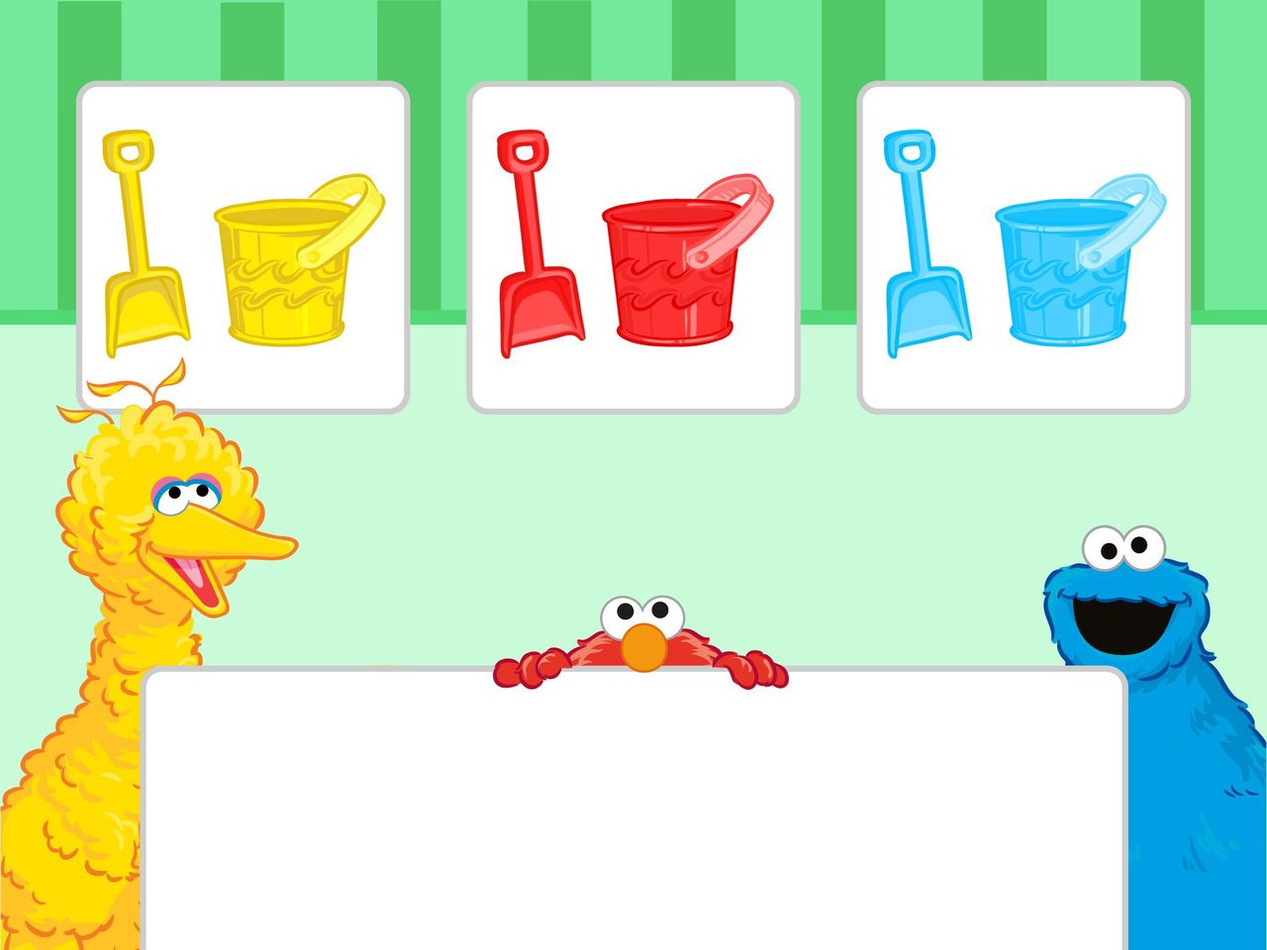
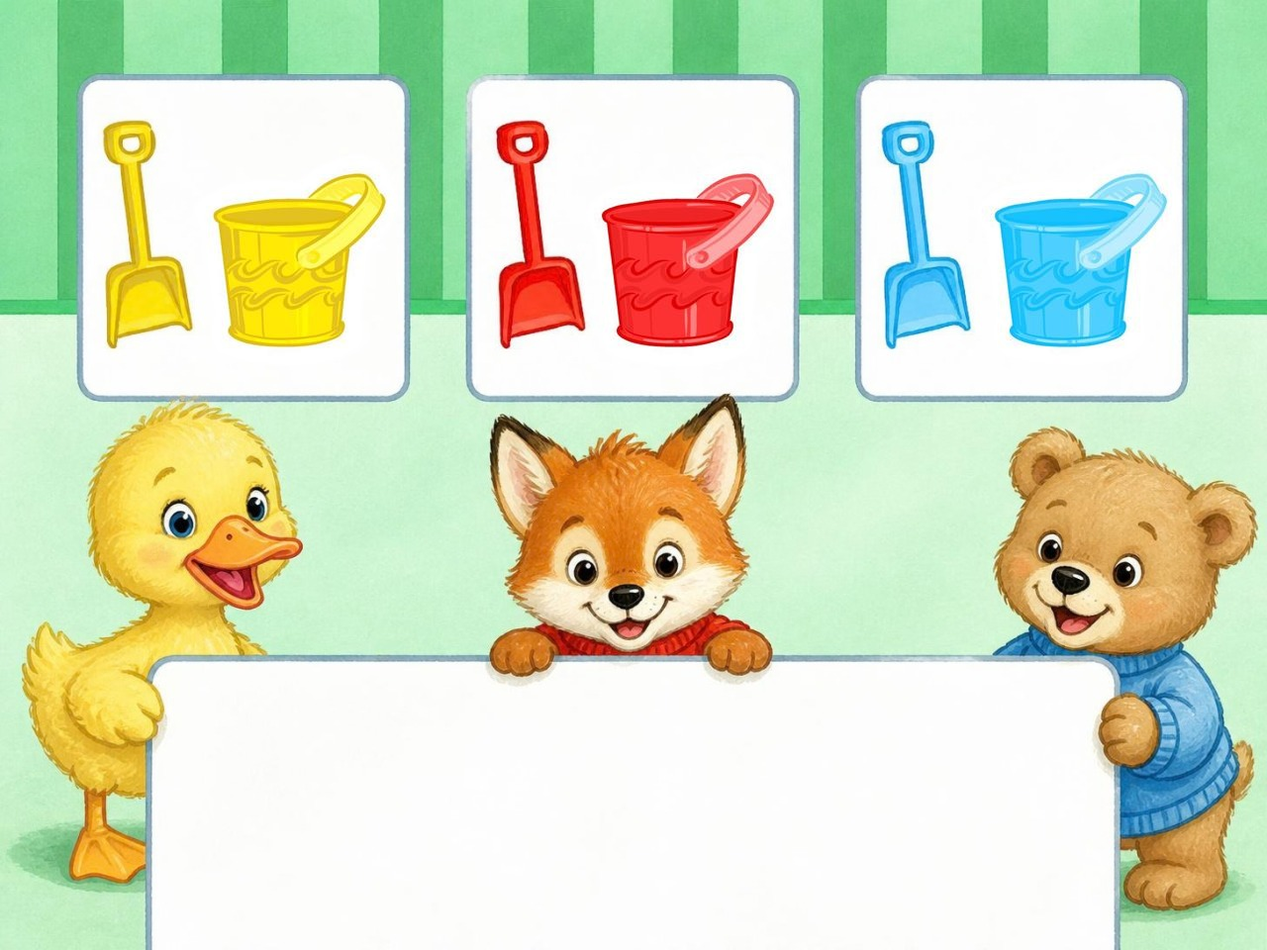
Sesame Street characters replaced in 'מיון צבעים' (6 slides), colors kept (red fox, blue bear, yellow duckling)

diff --git a/games/g4bj0/index.html b/games/g4bj0/index.html
@@ -157,7 +157,7 @@ body.framed #app .top .brand{display:none}
 </script>
 <script>
 /*CFGLINE*/
-const CFG = {"slides": [{"i": 0, "t": "R", "img": "img/s0.jpg?b=4", "acts": [{"intro": "aud/photo1__activity0__activity0.mp3", "advance": true, "idle": null, "shapes": []}], "layers": [{"t": "bg", "src": "lay/s0_0.jpg?b=4", "w": 2048, "h": 1536, "m": [1, 0, 0, 1, 0, 0], "show": 0, "tog": false}]}, {"i": 1, "t": "P", "img": "img/s1.jpg?b=4", "acts": [{"intro": "aud/photo2__activity0__activity0.mp3", "advance": false, "idle": null, "shapes": [{"d": "M 670.6 301.9 L 675.5 298.9 L 680.8 298.1 L 686.4 297.8 L 690.9 295.1 L 696.1 294.8 L 701.4 294.8 L 706.6 294.8 L 712.6 294.0 L 718.6 295.1 L 723.9 297.0 L 729.5 299.6 L 733.6 302.6 L 739.2 303.8 L 745.6 306.8 L 750.5 309.0 L 755.8 310.9 L 761.0 312.8 L 765.5 316.1 L 769.2 319.5 L 772.6 323.2 L 775.6 327.4 L 777.9 331.9 L 778.6 337.5 L 782.8 340.5 L 784.6 345.4 L 786.5 350.2 L 786.5 356.2 L 786.9 361.9 L 788.4 366.8 L 788.4 372.4 L 786.5 377.2 L 787.2 382.5 L 787.6 388.5 L 786.5 394.9 L 784.2 399.8 L 781.2 404.2 L 782.0 409.9 L 782.0 415.1 L 780.9 420.4 L 779.8 426.4 L 777.5 431.2 L 774.5 435.4 L 772.6 441.0 L 768.9 445.5 L 765.1 448.9 L 762.5 453.8 L 759.5 457.9 L 755.4 461.2 L 750.5 463.1 L 746.4 466.9 L 741.5 468.8 L 735.9 469.1 L 730.6 470.6 L 725.8 472.5 L 720.9 473.6 L 715.6 474.0 L 710.0 474.8 L 704.4 476.6 L 699.5 478.1 L 693.9 478.9 L 687.9 478.1 L 682.6 477.4 L 677.0 477.8 L 672.5 475.1 L 666.9 473.2 L 662.0 472.1 L 657.1 470.6 L 652.6 468.4 L 648.5 465.0 L 645.1 460.9 L 642.9 456.4 L 641.0 451.5 L 638.0 447.4 L 633.9 444.4 L 630.1 441.0 L 626.8 437.2 L 623.8 433.1 L 621.5 428.6 L 618.1 424.5 L 615.5 420.0 L 614.0 415.1 L 614.0 409.9 L 612.9 403.9 L 612.5 398.6 L 612.5 393.0 L 613.2 387.8 L 614.4 382.9 L 613.2 376.9 L 613.6 371.2 L 615.9 366.8 L 615.9 361.5 L 617.0 356.2 L 620.0 352.1 L 620.4 346.9 L 623.4 342.0 L 627.9 339.0 L 630.1 334.1 L 633.9 330.4 L 638.0 327.0 L 641.4 321.8 L 645.1 318.0 L 649.2 315.0 L 654.1 312.8 L 657.9 308.6 L 662.4 306.4 L 666.9 304.1 L 671.2 301.6 Z", "bb": [612, 294, 788, 479], "r1": "aud/photo2__activity0__shape11__record1_11.mp3", "r2": null, "ans": [], "link": null, "tx": -298.8, "ty": -242.5, "idle": null}, {"d": "M 305.8 308.6 L 310.6 305.6 L 315.9 304.9 L 321.5 304.5 L 326.0 301.9 L 331.2 301.5 L 336.5 301.5 L 341.8 301.5 L 347.8 300.8 L 353.8 301.9 L 359.0 303.8 L 364.6 306.4 L 368.8 309.4 L 374.4 310.5 L 380.8 313.5 L 385.6 315.8 L 390.9 317.6 L 396.1 319.5 L 400.6 322.9 L 404.4 326.2 L 407.8 330.0 L 410.8 334.1 L 413.0 338.6 L 413.8 344.2 L 417.9 347.2 L 419.8 352.1 L 421.6 357.0 L 421.6 363.0 L 422.0 368.6 L 423.5 373.5 L 423.5 379.1 L 421.6 384.0 L 422.4 389.2 L 422.8 395.2 L 421.6 401.6 L 419.4 406.5 L 416.4 411.0 L 417.1 416.6 L 417.1 421.9 L 416.0 427.1 L 414.9 433.1 L 412.6 438.0 L 409.6 442.1 L 407.8 447.8 L 404.0 452.2 L 400.2 455.6 L 397.6 460.5 L 394.6 464.6 L 390.5 468.0 L 385.6 469.9 L 381.5 473.6 L 376.6 475.5 L 371.0 475.9 L 365.8 477.4 L 360.9 479.2 L 356.0 480.4 L 350.8 480.8 L 345.1 481.5 L 339.5 483.4 L 334.6 484.9 L 329.0 485.6 L 323.0 484.9 L 317.8 484.1 L 312.1 484.5 L 307.6 481.9 L 302.0 480.0 L 297.1 478.9 L 292.2 477.4 L 287.8 475.1 L 283.6 471.8 L 280.2 467.6 L 278.0 463.1 L 276.1 458.2 L 273.1 454.1 L 269.0 451.1 L 265.2 447.8 L 261.9 444.0 L 258.9 439.9 L 256.6 435.4 L 253.2 431.2 L 250.6 426.8 L 249.1 421.9 L 249.1 416.6 L 248.0 410.6 L 247.6 405.4 L 247.6 399.8 L 248.4 394.5 L 249.5 389.6 L 248.4 383.6 L 248.8 378.0 L 251.0 373.5 L 251.0 368.2 L 252.1 363.0 L 255.1 358.9 L 255.5 353.6 L 258.5 348.8 L 263.0 345.8 L 265.2 340.9 L 269.0 337.1 L 273.1 333.8 L 276.5 328.5 L 280.2 324.8 L 284.4 321.8 L 289.2 319.5 L 293.0 315.4 L 297.5 313.1 L 302.0 310.9 L 306.3 308.3 Z", "bb": [248, 301, 424, 486], "r1": "aud/photo2__activity0__shape12__record1_12.mp3", "r2": null, "ans": [], "link": null, "tx": 274.9, "ty": -248.9, "idle": null}]}]}, {"i": 2, "t": "P", "img": "img/s2.jpg?b=4", "acts": [{"intro": "aud/photo3__activity0__activity0.mp3", "advance": false, "idle": null, "shapes": [{"d": "M 215.4 133.5 L 210.1 133.9 L 204.9 135.4 L 198.5 137.2 L 191.7 138.8 L 185.4 140.2 L 179.4 142.1 L 173.7 143.6 L 168.9 145.1 L 164.0 146.2 L 158.7 147.8 L 153.9 149.2 L 152.4 154.1 L 151.2 160.5 L 150.9 166.9 L 150.5 172.9 L 150.5 180.0 L 150.5 187.1 L 149.7 193.5 L 149.0 199.9 L 148.6 205.9 L 148.6 212.2 L 148.6 217.5 L 148.6 222.8 L 151.6 227.2 L 156.1 230.2 L 160.6 234.8 L 165.5 240.0 L 169.2 243.4 L 173.4 247.1 L 177.5 250.1 L 183.1 254.6 L 187.2 258.8 L 191.4 262.5 L 195.9 265.1 L 203.0 264.8 L 209.0 262.9 L 215.0 260.6 L 222.1 258.4 L 230.0 256.1 L 237.5 253.9 L 243.9 252.0 L 249.9 249.8 L 255.1 247.5 L 260.0 245.6 L 264.9 244.1 L 270.9 242.2 L 275.8 239.2 L 276.5 231.8 L 276.9 226.5 L 276.9 219.8 L 276.9 214.1 L 276.9 208.9 L 276.5 203.2 L 276.9 195.8 L 276.9 189.0 L 276.5 182.2 L 275.8 175.9 L 275.4 170.6 L 275.8 165.0 L 275.0 159.8 L 270.4 157.7 L 265.8 155.7 L 261.3 153.7 L 256.7 151.7 L 252.1 149.7 L 247.5 147.7 L 243.0 145.6 L 238.4 143.6 L 233.8 141.6 L 229.2 139.6 L 224.7 137.6 L 220.1 135.6 L 215.5 133.6 L 210.9 131.5 Z", "bb": [149, 132, 277, 265], "r1": "aud/photo3__activity0__shape9__record1_9.mp3", "r2": null, "ans": [], "link": null, "tx": 394.5, "ty": 329.4, "idle": null}, {"d": "M 816.9 134.2 L 811.2 137.6 L 806.8 139.9 L 801.5 142.9 L 796.2 145.1 L 790.6 148.1 L 786.5 151.1 L 782.0 153.4 L 776.8 156.0 L 771.5 159.0 L 765.9 162.0 L 761.4 165.0 L 759.9 171.0 L 759.1 177.4 L 758.8 183.4 L 758.4 190.1 L 758.4 195.4 L 758.4 202.9 L 758.0 208.1 L 758.0 213.4 L 758.0 219.8 L 758.4 225.8 L 759.1 231.4 L 759.1 236.6 L 763.6 240.4 L 768.5 242.6 L 774.5 245.2 L 779.8 247.5 L 785.8 250.1 L 791.4 252.4 L 796.6 254.6 L 802.6 256.5 L 808.6 258.0 L 813.9 259.5 L 819.1 261.0 L 824.0 263.2 L 829.2 265.1 L 835.6 263.2 L 840.5 259.5 L 844.2 256.1 L 848.4 252.8 L 853.6 248.6 L 858.9 245.2 L 863.8 241.9 L 868.6 238.9 L 872.8 235.9 L 877.2 232.1 L 880.6 228.4 L 881.4 220.1 L 881.4 214.1 L 881.8 206.6 L 882.1 199.5 L 882.1 193.5 L 882.1 186.4 L 882.1 181.1 L 882.5 174.8 L 882.5 169.1 L 882.5 163.5 L 882.1 158.2 L 881.0 153.4 L 876.2 151.9 L 871.4 150.5 L 866.6 149.1 L 861.8 147.7 L 857.0 146.2 L 852.3 144.8 L 847.5 143.4 L 842.7 141.9 L 837.9 140.5 L 833.1 139.1 L 828.3 137.7 L 823.5 136.2 L 818.7 134.8 L 813.9 133.4 Z", "bb": [758, 133, 882, 265], "r1": "aud/photo3__activity0__shape8__record1_8.mp3", "r2": null, "ans": [], "link": null, "tx": -398.8, "ty": 331.7, "idle": null}]}]}, {"i": 3, "t": "P", "img": "img/s3.jpg?b=4", "acts": [{"intro": "aud/photo4__activity0__activity0.mp3", "advance": false, "idle": null, "shapes": [{"d": "M 666.9 528.0 L 667.6 522.8 L 668.0 517.5 L 668.0 511.5 L 669.1 505.5 L 669.9 500.2 L 670.2 495.0 L 671.0 489.4 L 671.4 483.8 L 671.8 478.5 L 672.1 472.9 L 672.5 467.6 L 673.2 461.6 L 674.0 456.0 L 674.4 450.4 L 674.8 445.1 L 675.5 439.5 L 675.9 433.9 L 677.0 429.0 L 679.2 423.4 L 681.9 418.5 L 684.5 414.0 L 687.1 409.1 L 689.4 404.2 L 693.1 399.8 L 696.5 395.6 L 700.2 391.5 L 704.0 387.8 L 708.5 385.1 L 713.0 387.4 L 714.9 393.0 L 717.1 397.5 L 719.4 402.0 L 721.6 407.2 L 723.5 412.1 L 724.6 417.0 L 725.8 421.9 L 725.8 427.5 L 725.0 433.5 L 724.6 438.8 L 724.6 444.4 L 724.2 450.0 L 723.9 455.2 L 723.5 460.5 L 723.5 466.1 L 722.8 471.4 L 722.0 477.0 L 722.0 482.6 L 721.2 489.8 L 720.9 496.1 L 720.1 502.1 L 719.4 508.1 L 719.0 513.4 L 718.6 519.0 L 718.2 524.6 L 718.2 530.6 L 717.5 536.2 L 716.4 541.5 L 716.0 547.1 L 715.2 552.4 L 715.2 557.6 L 714.5 562.9 L 714.1 568.1 L 713.4 574.1 L 713.4 579.4 L 713.0 584.6 L 711.9 589.9 L 707.8 594.0 L 703.2 597.0 L 698.0 598.9 L 692.8 600.0 L 687.1 600.0 L 681.5 600.0 L 676.6 597.8 L 672.1 594.0 L 667.6 590.2 L 664.2 586.1 L 664.6 580.5 L 664.6 574.1 L 665.0 568.9 L 665.0 563.6 L 660.5 565.9 L 656.4 568.9 L 651.5 570.4 L 646.2 570.8 L 639.9 571.1 L 634.6 569.6 L 630.1 566.6 L 626.0 562.9 L 622.6 559.1 L 621.5 554.2 L 620.4 548.2 L 619.6 543.0 L 619.2 537.8 L 618.5 532.1 L 617.8 525.8 L 617.4 520.1 L 616.6 514.5 L 615.9 508.9 L 615.1 502.1 L 615.1 496.5 L 614.0 491.2 L 613.2 485.2 L 612.5 479.6 L 611.8 474.4 L 611.8 469.1 L 610.6 463.1 L 609.9 457.9 L 609.1 452.6 L 608.4 446.6 L 608.0 441.4 L 608.0 436.1 L 606.9 431.2 L 606.5 425.6 L 605.4 420.4 L 604.2 415.5 L 603.9 410.2 L 603.5 404.6 L 604.2 399.4 L 606.1 394.1 L 607.6 389.2 L 609.1 384.4 L 610.2 379.5 L 612.1 374.2 L 614.4 369.4 L 617.0 363.8 L 620.0 358.5 L 623.8 355.1 L 629.0 356.6 L 633.5 360.4 L 637.2 364.9 L 640.2 370.1 L 643.6 375.0 L 645.5 380.6 L 648.1 385.5 L 650.4 390.0 L 651.5 395.2 L 652.6 400.5 L 653.4 405.8 L 654.1 412.1 L 654.9 418.1 L 655.2 423.8 L 655.2 429.0 L 655.6 434.6 L 656.8 439.9 L 659.0 448.5 L 659.5 453.5 L 660.0 458.5 L 660.5 463.4 L 661.0 468.4 L 661.5 473.4 L 662.0 478.4 L 662.5 483.3 L 662.9 488.3 L 663.4 493.3 L 663.9 498.3 L 664.4 503.2 L 664.9 508.2 L 665.4 513.2 L 665.9 518.2 L 666.4 523.1 L 666.9 528.1 Z", "bb": [604, 355, 726, 600], "r1": "aud/photo4__activity0__shape15__record1_15.mp3", "r2": null, "ans": [], "link": null, "tx": -234.6, "ty": -312.4, "idle": null}, {"d": "M 376.6 506.2 L 377.4 501.0 L 377.8 495.8 L 377.8 489.8 L 378.9 483.8 L 379.6 478.5 L 380.0 473.2 L 380.8 467.6 L 381.1 462.0 L 381.5 456.8 L 381.9 451.1 L 382.2 445.9 L 383.0 439.9 L 383.8 434.2 L 384.1 428.6 L 384.5 423.4 L 385.2 417.8 L 385.6 412.1 L 386.8 407.2 L 389.0 401.6 L 391.6 396.8 L 394.2 392.2 L 396.9 387.4 L 399.1 382.5 L 402.9 378.0 L 406.2 373.9 L 410.0 369.8 L 413.8 366.0 L 418.2 363.4 L 422.8 365.6 L 424.6 371.2 L 426.9 375.8 L 429.1 380.2 L 431.4 385.5 L 433.2 390.4 L 434.4 395.2 L 435.5 400.1 L 435.5 405.8 L 434.8 411.8 L 434.4 417.0 L 434.4 422.6 L 434.0 428.2 L 433.6 433.5 L 433.2 438.8 L 433.2 444.4 L 432.5 449.6 L 431.8 455.2 L 431.8 460.9 L 431.0 468.0 L 430.6 474.4 L 429.9 480.4 L 429.1 486.4 L 428.8 491.6 L 428.4 497.2 L 428.0 502.9 L 428.0 508.9 L 427.2 514.5 L 426.1 519.8 L 425.8 525.4 L 425.0 530.6 L 425.0 535.9 L 424.2 541.1 L 423.9 546.4 L 423.1 552.4 L 423.1 557.6 L 422.8 562.9 L 421.6 568.1 L 417.5 572.2 L 413.0 575.2 L 407.8 577.1 L 402.5 578.2 L 396.9 578.2 L 391.2 578.2 L 386.4 576.0 L 381.9 572.2 L 377.4 568.5 L 374.0 564.4 L 374.4 558.8 L 374.4 552.4 L 374.8 547.1 L 374.8 541.9 L 370.2 544.1 L 366.1 547.1 L 361.2 548.6 L 356.0 549.0 L 349.6 549.4 L 344.4 547.9 L 339.9 544.9 L 335.8 541.1 L 332.4 537.4 L 331.2 532.5 L 330.1 526.5 L 329.4 521.2 L 329.0 516.0 L 328.2 510.4 L 327.5 504.0 L 327.1 498.4 L 326.4 492.8 L 325.6 487.1 L 324.9 480.4 L 324.9 474.8 L 323.8 469.5 L 323.0 463.5 L 322.2 457.9 L 321.5 452.6 L 321.5 447.4 L 320.4 441.4 L 319.6 436.1 L 318.9 430.9 L 318.1 424.9 L 317.8 419.6 L 317.8 414.4 L 316.6 409.5 L 316.2 403.9 L 315.1 398.6 L 314.0 393.8 L 313.6 388.5 L 313.2 382.9 L 314.0 377.6 L 315.9 372.4 L 317.4 367.5 L 318.9 362.6 L 320.0 357.8 L 321.9 352.5 L 324.1 347.6 L 326.8 342.0 L 329.8 336.8 L 333.5 333.4 L 338.8 334.9 L 343.2 338.6 L 347.0 343.1 L 350.0 348.4 L 353.4 353.2 L 355.2 358.9 L 357.9 363.8 L 360.1 368.2 L 361.2 373.5 L 362.4 378.8 L 363.1 384.0 L 363.9 390.4 L 364.6 396.4 L 365.0 402.0 L 365.0 407.2 L 365.4 412.9 L 366.5 418.1 L 368.8 426.8 L 369.2 431.7 L 369.7 436.7 L 370.2 441.7 L 370.7 446.7 L 371.2 451.6 L 371.7 456.6 L 372.2 461.6 L 372.7 466.6 L 373.2 471.5 L 373.7 476.5 L 374.2 481.5 L 374.7 486.5 L 375.2 491.4 L 375.7 496.4 L 376.1 501.4 L 376.6 506.4 Z", "bb": [313, 333, 436, 578], "r1": "aud/photo4__activity0__shape16__record1_16.mp3", "r2": null, "ans": [], "link": null, "tx": 231.9, "ty": -289.0, "idle": null}]}]}, {"i": 4, "t": "P", "img": "img/s4.jpg?b=4", "acts": [{"intro": "aud/photo5__activity0__activity0.mp3", "advance": false, "idle": null, "shapes": [{"d": "M 240.9 150.4 L 243.9 146.2 L 248.7 142.9 L 254.0 139.5 L 258.9 136.9 L 264.1 134.2 L 269.4 132.0 L 274.6 129.8 L 280.2 129.0 L 287.0 128.2 L 293.8 127.9 L 299.4 130.1 L 304.2 133.1 L 308.8 138.4 L 311.8 142.9 L 314.0 147.4 L 316.2 153.0 L 317.8 157.9 L 318.1 163.9 L 317.4 169.1 L 315.1 175.1 L 312.9 180.0 L 310.2 184.9 L 306.5 189.8 L 302.4 194.2 L 298.6 198.4 L 295.2 202.1 L 293.4 208.9 L 293.0 216.0 L 292.6 221.6 L 291.9 228.0 L 291.1 233.2 L 290.8 239.2 L 290.0 245.2 L 289.2 250.5 L 288.9 256.5 L 290.4 262.9 L 291.5 267.8 L 291.1 273.8 L 288.5 278.6 L 283.6 282.4 L 278.4 285.0 L 273.5 286.9 L 267.9 288.4 L 261.9 289.9 L 255.9 291.0 L 249.5 291.8 L 244.2 292.5 L 238.6 292.5 L 231.9 292.5 L 224.7 291.8 L 219.5 291.8 L 212.7 291.4 L 206.0 290.2 L 200.0 289.1 L 192.5 288.0 L 186.9 286.5 L 180.9 284.2 L 176.0 280.9 L 173.7 276.4 L 173.0 270.4 L 173.0 264.8 L 174.5 259.9 L 174.9 253.5 L 174.1 246.4 L 172.6 240.4 L 171.9 234.8 L 171.5 228.4 L 170.4 223.5 L 169.2 217.9 L 168.9 211.9 L 168.5 205.9 L 168.1 200.6 L 167.7 194.6 L 167.4 189.4 L 164.7 183.8 L 162.1 179.2 L 159.9 174.4 L 159.5 168.4 L 162.9 163.5 L 167.0 160.1 L 172.6 156.4 L 177.5 154.5 L 182.4 152.6 L 188.0 150.8 L 192.9 149.6 L 198.9 148.5 L 205.6 148.1 L 210.9 147.8 L 216.9 147.8 L 223.2 148.1 L 229.2 148.5 L 234.5 148.9 L 241.2 150.0 L 237.7 153.5 Z", "bb": [159, 128, 318, 292], "r1": "aud/photo5__activity0__shape8__record1_8.mp3", "r2": null, "ans": [], "link": null, "tx": 519.9, "ty": 443.6, "idle": null}, {"d": "M 557.0 151.5 L 560.0 147.4 L 564.9 144.0 L 570.1 140.6 L 575.0 138.0 L 580.2 135.4 L 585.5 133.1 L 590.8 130.9 L 596.4 130.1 L 603.1 129.4 L 609.9 129.0 L 615.5 131.2 L 620.4 134.2 L 624.9 139.5 L 627.9 144.0 L 630.1 148.5 L 632.4 154.1 L 633.9 159.0 L 634.2 165.0 L 633.5 170.2 L 631.2 176.2 L 629.0 181.1 L 626.4 186.0 L 622.6 190.9 L 618.5 195.4 L 614.8 199.5 L 611.4 203.2 L 609.5 210.0 L 609.1 217.1 L 608.8 222.8 L 608.0 229.1 L 607.2 234.4 L 606.9 240.4 L 606.1 246.4 L 605.4 251.6 L 605.0 257.6 L 606.5 264.0 L 607.6 268.9 L 607.2 274.9 L 604.6 279.8 L 599.8 283.5 L 594.5 286.1 L 589.6 288.0 L 584.0 289.5 L 578.0 291.0 L 572.0 292.1 L 565.6 292.9 L 560.4 293.6 L 554.8 293.6 L 548.0 293.6 L 540.9 292.9 L 535.6 292.9 L 528.9 292.5 L 522.1 291.4 L 516.1 290.2 L 508.6 289.1 L 503.0 287.6 L 497.0 285.4 L 492.1 282.0 L 489.9 277.5 L 489.1 271.5 L 489.1 265.9 L 490.6 261.0 L 491.0 254.6 L 490.2 247.5 L 488.8 241.5 L 488.0 235.9 L 487.6 229.5 L 486.5 224.6 L 485.4 219.0 L 485.0 213.0 L 484.6 207.0 L 484.2 201.8 L 483.9 195.8 L 483.5 190.5 L 480.9 184.9 L 478.2 180.4 L 476.0 175.5 L 475.6 169.5 L 479.0 164.6 L 483.1 161.2 L 488.8 157.5 L 493.6 155.6 L 498.5 153.8 L 504.1 151.9 L 509.0 150.8 L 515.0 149.6 L 521.8 149.2 L 527.0 148.9 L 533.0 148.9 L 539.4 149.2 L 545.4 149.6 L 550.6 150.0 L 557.4 151.1 L 553.8 154.7 Z", "bb": [476, 129, 634, 294], "r1": "aud/photo5__activity0__shape10__record1_10.mp3", "r2": null, "ans": [], "link": null, "tx": -286.8, "ty": 443.9, "idle": null}, {"d": "M 873.1 150.8 L 876.1 146.6 L 881.0 143.2 L 886.2 139.9 L 891.1 137.2 L 896.4 134.6 L 901.6 132.4 L 906.9 130.1 L 912.5 129.4 L 919.2 128.6 L 926.0 128.2 L 931.6 130.5 L 936.5 133.5 L 941.0 138.8 L 944.0 143.2 L 946.2 147.8 L 948.5 153.4 L 950.0 158.2 L 950.4 164.2 L 949.6 169.5 L 947.4 175.5 L 945.1 180.4 L 942.5 185.2 L 938.8 190.1 L 934.6 194.6 L 930.9 198.8 L 927.5 202.5 L 925.6 209.2 L 925.2 216.4 L 924.9 222.0 L 924.1 228.4 L 923.4 233.6 L 923.0 239.6 L 922.2 245.6 L 921.5 250.9 L 921.1 256.9 L 922.6 263.2 L 923.8 268.1 L 923.4 274.1 L 920.8 279.0 L 915.9 282.8 L 910.6 285.4 L 905.8 287.2 L 900.1 288.8 L 894.1 290.2 L 888.1 291.4 L 881.8 292.1 L 876.5 292.9 L 870.9 292.9 L 864.1 292.9 L 857.0 292.1 L 851.8 292.1 L 845.0 291.8 L 838.2 290.6 L 832.2 289.5 L 824.8 288.4 L 819.1 286.9 L 813.1 284.6 L 808.2 281.2 L 806.0 276.8 L 805.2 270.8 L 805.2 265.1 L 806.8 260.2 L 807.1 253.9 L 806.4 246.8 L 804.9 240.8 L 804.1 235.1 L 803.8 228.8 L 802.6 223.9 L 801.5 218.2 L 801.1 212.2 L 800.8 206.2 L 800.4 201.0 L 800.0 195.0 L 799.6 189.8 L 797.0 184.1 L 794.4 179.6 L 792.1 174.8 L 791.8 168.8 L 795.1 163.9 L 799.2 160.5 L 804.9 156.8 L 809.8 154.9 L 814.6 153.0 L 820.2 151.1 L 825.1 150.0 L 831.1 148.9 L 837.9 148.5 L 843.1 148.1 L 849.1 148.1 L 855.5 148.5 L 861.5 148.9 L 866.8 149.2 L 873.5 150.4 L 870.0 153.9 Z", "bb": [792, 128, 950, 293], "r1": "aud/photo5__activity0__shape9__record1_9.mp3", "r2": null, "ans": [], "link": null, "tx": -349.9, "ty": 445.9, "idle": null}]}]}, {"i": 5, "t": "P", "img": "img/s5.jpg?b=4", "acts": [{"intro": "aud/photo6__activity0__activity0.mp3", "advance": false, "idle": null, "shapes": [{"d": "M 294.2 599.5 L 294.2 675.8 C 294.2 679.7 291.0 682.8 287.2 682.8 L 101.1 682.8 C 97.3 682.8 94.1 679.7 94.1 675.8 L 94.1 523.2 C 94.1 519.3 97.3 516.2 101.1 516.2 L 287.2 516.2 C 291.0 516.2 294.2 519.3 294.2 523.2 Z", "bb": [94, 516, 294, 683], "r1": "aud/photo6__activity0__shape4__record1_4.mp3", "r2": null, "ans": [], "link": null, "tx": 315.0, "ty": -471.5, "idle": null}, {"d": "M 608.0 600.2 L 608.0 676.5 C 608.0 680.4 604.9 683.5 601.0 683.5 L 415.0 683.5 C 411.1 683.5 408.0 680.4 408.0 676.5 L 408.0 523.9 C 408.0 520.0 411.1 516.9 415.0 516.9 L 601.0 516.9 C 604.9 516.9 608.0 520.0 608.0 523.9 Z", "bb": [408, 517, 608, 684], "r1": "aud/photo6__activity0__shape6__record1_6.mp3", "r2": null, "ans": [], "link": null, "tx": 258.0, "ty": -473.1, "idle": null}, {"d": "M 926.2 601.7 L 926.2 678.0 C 926.2 681.9 923.0 685.0 919.2 685.0 L 733.1 685.0 C 729.3 685.0 726.1 681.9 726.1 678.0 L 726.1 525.4 C 726.1 521.5 729.3 518.4 733.1 518.4 L 919.2 518.4 C 923.0 518.4 926.2 521.5 926.2 525.4 Z", "bb": [726, 518, 926, 685], "r1": "aud/photo6__activity0__shape5__record1_5.mp3", "r2": null, "ans": [], "link": null, "tx": -574.2, "ty": -473.4, "idle": null}]}]}, {"i": 6, "t": "P", "img": "img/s6.jpg?b=4", "acts": [{"intro": "aud/photo7__activity0__activity0.mp3", "advance": false, "idle": null, "shapes": [{"d": "M 400.2 619.9 L 400.6 626.2 L 401.4 633.0 L 401.8 639.4 L 402.9 644.2 L 403.2 649.5 L 404.4 654.8 L 407.0 659.2 L 412.2 661.9 L 418.2 661.1 L 423.5 659.2 L 429.1 656.2 L 433.6 653.6 L 437.8 650.2 L 442.6 647.2 L 447.5 644.6 L 452.0 641.6 L 456.1 638.6 L 460.2 641.6 L 463.6 645.8 L 468.1 648.8 L 473.4 649.1 L 478.2 647.6 L 482.4 644.2 L 486.5 639.4 L 490.2 635.2 L 493.2 631.1 L 496.6 626.6 L 500.0 622.9 L 504.1 618.8 L 508.2 614.6 L 512.0 610.1 L 515.0 606.0 L 519.1 601.1 L 522.5 597.4 L 525.5 593.2 L 528.9 588.8 L 531.9 584.2 L 534.5 579.8 L 537.5 574.5 L 538.6 569.2 L 534.9 565.1 L 528.5 564.8 L 523.2 565.1 L 516.5 565.5 L 510.1 565.5 L 504.1 565.5 L 497.8 565.9 L 492.1 567.0 L 485.8 567.4 L 480.1 567.8 L 473.4 568.5 L 467.4 569.2 L 461.0 570.0 L 455.0 570.8 L 448.6 571.5 L 442.6 571.9 L 436.6 571.9 L 430.6 572.2 L 425.0 572.6 L 419.0 573.0 L 413.0 573.4 L 407.8 573.8 L 402.5 574.1 L 398.0 576.8 L 393.9 580.9 L 390.1 584.6 L 386.0 588.0 L 381.5 591.8 L 377.0 595.1 L 372.5 598.5 L 368.4 601.5 L 364.2 605.2 L 360.9 609.4 L 360.9 615.0 L 365.4 617.6 L 370.6 618.8 L 376.6 619.1 L 381.9 619.1 L 387.1 618.8 L 395.0 617.2 L 399.9 616.1 L 400.4 621.1 Z", "bb": [361, 565, 539, 662], "r1": "aud/photo7__activity0__shape3__record1_3.mp3", "r2": null, "ans": [], "link": null, "tx": 220.5, "ty": -469.9, "idle": null}, {"d": "M 394.2 351.0 L 394.6 357.4 L 395.4 364.1 L 395.8 370.5 L 396.9 375.4 L 397.2 380.6 L 398.4 385.9 L 401.0 390.4 L 406.2 393.0 L 412.2 392.2 L 417.5 390.4 L 423.1 387.4 L 427.6 384.8 L 431.8 381.4 L 436.6 378.4 L 441.5 375.8 L 446.0 372.8 L 450.1 369.8 L 454.2 372.8 L 457.6 376.9 L 462.1 379.9 L 467.4 380.2 L 472.2 378.8 L 476.4 375.4 L 480.5 370.5 L 484.2 366.4 L 487.2 362.2 L 490.6 357.8 L 494.0 354.0 L 498.1 349.9 L 502.2 345.8 L 506.0 341.2 L 509.0 337.1 L 513.1 332.2 L 516.5 328.5 L 519.5 324.4 L 522.9 319.9 L 525.9 315.4 L 528.5 310.9 L 531.5 305.6 L 532.6 300.4 L 528.9 296.2 L 522.5 295.9 L 517.2 296.2 L 510.5 296.6 L 504.1 296.6 L 498.1 296.6 L 491.8 297.0 L 486.1 298.1 L 479.8 298.5 L 474.1 298.9 L 467.4 299.6 L 461.4 300.4 L 455.0 301.1 L 449.0 301.9 L 442.6 302.6 L 436.6 303.0 L 430.6 303.0 L 424.6 303.4 L 419.0 303.8 L 413.0 304.1 L 407.0 304.5 L 401.8 304.9 L 396.5 305.2 L 392.0 307.9 L 387.9 312.0 L 384.1 315.8 L 380.0 319.1 L 375.5 322.9 L 371.0 326.2 L 366.5 329.6 L 362.4 332.6 L 358.2 336.4 L 354.9 340.5 L 354.9 346.1 L 359.4 348.8 L 364.6 349.9 L 370.6 350.2 L 375.9 350.2 L 381.1 349.9 L 389.0 348.4 L 393.9 347.2 L 394.4 352.2 Z", "bb": [355, 296, 533, 393], "r1": "aud/photo7__activity0__shape2__record1_2.mp3", "r2": null, "ans": [], "link": null, "tx": 414.6, "ty": 10, "idle": null}, {"d": "M 291.5 120.8 L 291.9 127.1 L 292.6 133.9 L 293.0 140.2 L 294.1 145.1 L 294.5 150.4 L 295.6 155.6 L 298.2 160.1 L 303.5 162.8 L 309.5 162.0 L 314.8 160.1 L 320.4 157.1 L 324.9 154.5 L 329.0 151.1 L 333.9 148.1 L 338.8 145.5 L 343.2 142.5 L 347.4 139.5 L 351.5 142.5 L 354.9 146.6 L 359.4 149.6 L 364.6 150.0 L 369.5 148.5 L 373.6 145.1 L 377.8 140.2 L 381.5 136.1 L 384.5 132.0 L 387.9 127.5 L 391.2 123.8 L 395.4 119.6 L 399.5 115.5 L 403.2 111.0 L 406.2 106.9 L 410.4 102.0 L 413.8 98.2 L 416.8 94.1 L 420.1 89.6 L 423.1 85.1 L 425.8 80.6 L 428.8 75.4 L 429.9 70.1 L 426.1 66.0 L 419.8 65.6 L 414.5 66.0 L 407.8 66.4 L 401.4 66.4 L 395.4 66.4 L 389.0 66.8 L 383.4 67.9 L 377.0 68.2 L 371.4 68.6 L 364.6 69.4 L 358.6 70.1 L 352.2 70.9 L 346.2 71.6 L 339.9 72.4 L 333.9 72.8 L 327.9 72.8 L 321.9 73.1 L 316.2 73.5 L 310.2 73.9 L 304.2 74.2 L 299.0 74.6 L 293.8 75.0 L 289.2 77.6 L 285.1 81.8 L 281.4 85.5 L 277.2 88.9 L 272.8 92.6 L 268.2 96.0 L 263.8 99.4 L 259.6 102.4 L 255.5 106.1 L 252.1 110.2 L 252.1 115.9 L 256.6 118.5 L 261.9 119.6 L 267.9 120.0 L 273.1 120.0 L 278.4 119.6 L 286.2 118.1 L 291.1 117.0 L 291.6 122.0 Z", "bb": [252, 66, 430, 163], "r1": "aud/photo7__activity0__shape4__record1_4.mp3", "r2": null, "ans": [], "link": null, "tx": 378.6, "ty": 461.2, "idle": null}]}]}, {"i": 7, "t": "R", "img": "img/s7.jpg?b=4", "acts": [{"intro": "aud/photo8__activity0__activity0.mp3", "advance": true, "idle": null, "shapes": []}], "layers": [{"t": "bg", "src": "lay/s7_0.jpg?b=4", "w": 2048, "h": 1536, "m": [1, 0, 0, 1, 0, 0], "show": 0, "tog": false}]}], "title": "מיון צבעים", "hash": "g4bj0", "brand": "חן קלימיאן", "writeBase": "../../letters/"};
+const CFG = {"slides": [{"i": 0, "t": "R", "img": "img/s0.jpg?b=4", "acts": [{"intro": "aud/photo1__activity0__activity0.mp3", "advance": true, "idle": null, "shapes": []}], "layers": [{"t": "bg", "src": "lay/s0_0.jpg?b=4", "w": 2048, "h": 1536, "m": [1, 0, 0, 1, 0, 0], "show": 0, "tog": false}]}, {"i": 1, "t": "P", "img": "img/s1.jpg?b=5", "acts": [{"intro": "aud/photo2__activity0__activity0.mp3", "advance": false, "idle": null, "shapes": [{"d": "M 670.6 301.9 L 675.5 298.9 L 680.8 298.1 L 686.4 297.8 L 690.9 295.1 L 696.1 294.8 L 701.4 294.8 L 706.6 294.8 L 712.6 294.0 L 718.6 295.1 L 723.9 297.0 L 729.5 299.6 L 733.6 302.6 L 739.2 303.8 L 745.6 306.8 L 750.5 309.0 L 755.8 310.9 L 761.0 312.8 L 765.5 316.1 L 769.2 319.5 L 772.6 323.2 L 775.6 327.4 L 777.9 331.9 L 778.6 337.5 L 782.8 340.5 L 784.6 345.4 L 786.5 350.2 L 786.5 356.2 L 786.9 361.9 L 788.4 366.8 L 788.4 372.4 L 786.5 377.2 L 787.2 382.5 L 787.6 388.5 L 786.5 394.9 L 784.2 399.8 L 781.2 404.2 L 782.0 409.9 L 782.0 415.1 L 780.9 420.4 L 779.8 426.4 L 777.5 431.2 L 774.5 435.4 L 772.6 441.0 L 768.9 445.5 L 765.1 448.9 L 762.5 453.8 L 759.5 457.9 L 755.4 461.2 L 750.5 463.1 L 746.4 466.9 L 741.5 468.8 L 735.9 469.1 L 730.6 470.6 L 725.8 472.5 L 720.9 473.6 L 715.6 474.0 L 710.0 474.8 L 704.4 476.6 L 699.5 478.1 L 693.9 478.9 L 687.9 478.1 L 682.6 477.4 L 677.0 477.8 L 672.5 475.1 L 666.9 473.2 L 662.0 472.1 L 657.1 470.6 L 652.6 468.4 L 648.5 465.0 L 645.1 460.9 L 642.9 456.4 L 641.0 451.5 L 638.0 447.4 L 633.9 444.4 L 630.1 441.0 L 626.8 437.2 L 623.8 433.1 L 621.5 428.6 L 618.1 424.5 L 615.5 420.0 L 614.0 415.1 L 614.0 409.9 L 612.9 403.9 L 612.5 398.6 L 612.5 393.0 L 613.2 387.8 L 614.4 382.9 L 613.2 376.9 L 613.6 371.2 L 615.9 366.8 L 615.9 361.5 L 617.0 356.2 L 620.0 352.1 L 620.4 346.9 L 623.4 342.0 L 627.9 339.0 L 630.1 334.1 L 633.9 330.4 L 638.0 327.0 L 641.4 321.8 L 645.1 318.0 L 649.2 315.0 L 654.1 312.8 L 657.9 308.6 L 662.4 306.4 L 666.9 304.1 L 671.2 301.6 Z", "bb": [612, 294, 788, 479], "r1": "aud/photo2__activity0__shape11__record1_11.mp3", "r2": null, "ans": [], "link": null, "tx": -298.8, "ty": -242.5, "idle": null}, {"d": "M 305.8 308.6 L 310.6 305.6 L 315.9 304.9 L 321.5 304.5 L 326.0 301.9 L 331.2 301.5 L 336.5 301.5 L 341.8 301.5 L 347.8 300.8 L 353.8 301.9 L 359.0 303.8 L 364.6 306.4 L 368.8 309.4 L 374.4 310.5 L 380.8 313.5 L 385.6 315.8 L 390.9 317.6 L 396.1 319.5 L 400.6 322.9 L 404.4 326.2 L 407.8 330.0 L 410.8 334.1 L 413.0 338.6 L 413.8 344.2 L 417.9 347.2 L 419.8 352.1 L 421.6 357.0 L 421.6 363.0 L 422.0 368.6 L 423.5 373.5 L 423.5 379.1 L 421.6 384.0 L 422.4 389.2 L 422.8 395.2 L 421.6 401.6 L 419.4 406.5 L 416.4 411.0 L 417.1 416.6 L 417.1 421.9 L 416.0 427.1 L 414.9 433.1 L 412.6 438.0 L 409.6 442.1 L 407.8 447.8 L 404.0 452.2 L 400.2 455.6 L 397.6 460.5 L 394.6 464.6 L 390.5 468.0 L 385.6 469.9 L 381.5 473.6 L 376.6 475.5 L 371.0 475.9 L 365.8 477.4 L 360.9 479.2 L 356.0 480.4 L 350.8 480.8 L 345.1 481.5 L 339.5 483.4 L 334.6 484.9 L 329.0 485.6 L 323.0 484.9 L 317.8 484.1 L 312.1 484.5 L 307.6 481.9 L 302.0 480.0 L 297.1 478.9 L 292.2 477.4 L 287.8 475.1 L 283.6 471.8 L 280.2 467.6 L 278.0 463.1 L 276.1 458.2 L 273.1 454.1 L 269.0 451.1 L 265.2 447.8 L 261.9 444.0 L 258.9 439.9 L 256.6 435.4 L 253.2 431.2 L 250.6 426.8 L 249.1 421.9 L 249.1 416.6 L 248.0 410.6 L 247.6 405.4 L 247.6 399.8 L 248.4 394.5 L 249.5 389.6 L 248.4 383.6 L 248.8 378.0 L 251.0 373.5 L 251.0 368.2 L 252.1 363.0 L 255.1 358.9 L 255.5 353.6 L 258.5 348.8 L 263.0 345.8 L 265.2 340.9 L 269.0 337.1 L 273.1 333.8 L 276.5 328.5 L 280.2 324.8 L 284.4 321.8 L 289.2 319.5 L 293.0 315.4 L 297.5 313.1 L 302.0 310.9 L 306.3 308.3 Z", "bb": [248, 301, 424, 486], "r1": "aud/photo2__activity0__shape12__record1_12.mp3", "r2": null, "ans": [], "link": null, "tx": 274.9, "ty": -248.9, "idle": null}]}]}, {"i": 2, "t": "P", "img": "img/s2.jpg?b=5", "acts": [{"intro": "aud/photo3__activity0__activity0.mp3", "advance": false, "idle": null, "shapes": [{"d": "M 215.4 133.5 L 210.1 133.9 L 204.9 135.4 L 198.5 137.2 L 191.7 138.8 L 185.4 140.2 L 179.4 142.1 L 173.7 143.6 L 168.9 145.1 L 164.0 146.2 L 158.7 147.8 L 153.9 149.2 L 152.4 154.1 L 151.2 160.5 L 150.9 166.9 L 150.5 172.9 L 150.5 180.0 L 150.5 187.1 L 149.7 193.5 L 149.0 199.9 L 148.6 205.9 L 148.6 212.2 L 148.6 217.5 L 148.6 222.8 L 151.6 227.2 L 156.1 230.2 L 160.6 234.8 L 165.5 240.0 L 169.2 243.4 L 173.4 247.1 L 177.5 250.1 L 183.1 254.6 L 187.2 258.8 L 191.4 262.5 L 195.9 265.1 L 203.0 264.8 L 209.0 262.9 L 215.0 260.6 L 222.1 258.4 L 230.0 256.1 L 237.5 253.9 L 243.9 252.0 L 249.9 249.8 L 255.1 247.5 L 260.0 245.6 L 264.9 244.1 L 270.9 242.2 L 275.8 239.2 L 276.5 231.8 L 276.9 226.5 L 276.9 219.8 L 276.9 214.1 L 276.9 208.9 L 276.5 203.2 L 276.9 195.8 L 276.9 189.0 L 276.5 182.2 L 275.8 175.9 L 275.4 170.6 L 275.8 165.0 L 275.0 159.8 L 270.4 157.7 L 265.8 155.7 L 261.3 153.7 L 256.7 151.7 L 252.1 149.7 L 247.5 147.7 L 243.0 145.6 L 238.4 143.6 L 233.8 141.6 L 229.2 139.6 L 224.7 137.6 L 220.1 135.6 L 215.5 133.6 L 210.9 131.5 Z", "bb": [149, 132, 277, 265], "r1": "aud/photo3__activity0__shape9__record1_9.mp3", "r2": null, "ans": [], "link": null, "tx": 394.5, "ty": 329.4, "idle": null}, {"d": "M 816.9 134.2 L 811.2 137.6 L 806.8 139.9 L 801.5 142.9 L 796.2 145.1 L 790.6 148.1 L 786.5 151.1 L 782.0 153.4 L 776.8 156.0 L 771.5 159.0 L 765.9 162.0 L 761.4 165.0 L 759.9 171.0 L 759.1 177.4 L 758.8 183.4 L 758.4 190.1 L 758.4 195.4 L 758.4 202.9 L 758.0 208.1 L 758.0 213.4 L 758.0 219.8 L 758.4 225.8 L 759.1 231.4 L 759.1 236.6 L 763.6 240.4 L 768.5 242.6 L 774.5 245.2 L 779.8 247.5 L 785.8 250.1 L 791.4 252.4 L 796.6 254.6 L 802.6 256.5 L 808.6 258.0 L 813.9 259.5 L 819.1 261.0 L 824.0 263.2 L 829.2 265.1 L 835.6 263.2 L 840.5 259.5 L 844.2 256.1 L 848.4 252.8 L 853.6 248.6 L 858.9 245.2 L 863.8 241.9 L 868.6 238.9 L 872.8 235.9 L 877.2 232.1 L 880.6 228.4 L 881.4 220.1 L 881.4 214.1 L 881.8 206.6 L 882.1 199.5 L 882.1 193.5 L 882.1 186.4 L 882.1 181.1 L 882.5 174.8 L 882.5 169.1 L 882.5 163.5 L 882.1 158.2 L 881.0 153.4 L 876.2 151.9 L 871.4 150.5 L 866.6 149.1 L 861.8 147.7 L 857.0 146.2 L 852.3 144.8 L 847.5 143.4 L 842.7 141.9 L 837.9 140.5 L 833.1 139.1 L 828.3 137.7 L 823.5 136.2 L 818.7 134.8 L 813.9 133.4 Z", "bb": [758, 133, 882, 265], "r1": "aud/photo3__activity0__shape8__record1_8.mp3", "r2": null, "ans": [], "link": null, "tx": -398.8, "ty": 331.7, "idle": null}]}]}, {"i": 3, "t": "P", "img": "img/s3.jpg?b=5", "acts": [{"intro": "aud/photo4__activity0__activity0.mp3", "advance": false, "idle": null, "shapes": [{"d": "M 666.9 528.0 L 667.6 522.8 L 668.0 517.5 L 668.0 511.5 L 669.1 505.5 L 669.9 500.2 L 670.2 495.0 L 671.0 489.4 L 671.4 483.8 L 671.8 478.5 L 672.1 472.9 L 672.5 467.6 L 673.2 461.6 L 674.0 456.0 L 674.4 450.4 L 674.8 445.1 L 675.5 439.5 L 675.9 433.9 L 677.0 429.0 L 679.2 423.4 L 681.9 418.5 L 684.5 414.0 L 687.1 409.1 L 689.4 404.2 L 693.1 399.8 L 696.5 395.6 L 700.2 391.5 L 704.0 387.8 L 708.5 385.1 L 713.0 387.4 L 714.9 393.0 L 717.1 397.5 L 719.4 402.0 L 721.6 407.2 L 723.5 412.1 L 724.6 417.0 L 725.8 421.9 L 725.8 427.5 L 725.0 433.5 L 724.6 438.8 L 724.6 444.4 L 724.2 450.0 L 723.9 455.2 L 723.5 460.5 L 723.5 466.1 L 722.8 471.4 L 722.0 477.0 L 722.0 482.6 L 721.2 489.8 L 720.9 496.1 L 720.1 502.1 L 719.4 508.1 L 719.0 513.4 L 718.6 519.0 L 718.2 524.6 L 718.2 530.6 L 717.5 536.2 L 716.4 541.5 L 716.0 547.1 L 715.2 552.4 L 715.2 557.6 L 714.5 562.9 L 714.1 568.1 L 713.4 574.1 L 713.4 579.4 L 713.0 584.6 L 711.9 589.9 L 707.8 594.0 L 703.2 597.0 L 698.0 598.9 L 692.8 600.0 L 687.1 600.0 L 681.5 600.0 L 676.6 597.8 L 672.1 594.0 L 667.6 590.2 L 664.2 586.1 L 664.6 580.5 L 664.6 574.1 L 665.0 568.9 L 665.0 563.6 L 660.5 565.9 L 656.4 568.9 L 651.5 570.4 L 646.2 570.8 L 639.9 571.1 L 634.6 569.6 L 630.1 566.6 L 626.0 562.9 L 622.6 559.1 L 621.5 554.2 L 620.4 548.2 L 619.6 543.0 L 619.2 537.8 L 618.5 532.1 L 617.8 525.8 L 617.4 520.1 L 616.6 514.5 L 615.9 508.9 L 615.1 502.1 L 615.1 496.5 L 614.0 491.2 L 613.2 485.2 L 612.5 479.6 L 611.8 474.4 L 611.8 469.1 L 610.6 463.1 L 609.9 457.9 L 609.1 452.6 L 608.4 446.6 L 608.0 441.4 L 608.0 436.1 L 606.9 431.2 L 606.5 425.6 L 605.4 420.4 L 604.2 415.5 L 603.9 410.2 L 603.5 404.6 L 604.2 399.4 L 606.1 394.1 L 607.6 389.2 L 609.1 384.4 L 610.2 379.5 L 612.1 374.2 L 614.4 369.4 L 617.0 363.8 L 620.0 358.5 L 623.8 355.1 L 629.0 356.6 L 633.5 360.4 L 637.2 364.9 L 640.2 370.1 L 643.6 375.0 L 645.5 380.6 L 648.1 385.5 L 650.4 390.0 L 651.5 395.2 L 652.6 400.5 L 653.4 405.8 L 654.1 412.1 L 654.9 418.1 L 655.2 423.8 L 655.2 429.0 L 655.6 434.6 L 656.8 439.9 L 659.0 448.5 L 659.5 453.5 L 660.0 458.5 L 660.5 463.4 L 661.0 468.4 L 661.5 473.4 L 662.0 478.4 L 662.5 483.3 L 662.9 488.3 L 663.4 493.3 L 663.9 498.3 L 664.4 503.2 L 664.9 508.2 L 665.4 513.2 L 665.9 518.2 L 666.4 523.1 L 666.9 528.1 Z", "bb": [604, 355, 726, 600], "r1": "aud/photo4__activity0__shape15__record1_15.mp3", "r2": null, "ans": [], "link": null, "tx": -234.6, "ty": -312.4, "idle": null}, {"d": "M 376.6 506.2 L 377.4 501.0 L 377.8 495.8 L 377.8 489.8 L 378.9 483.8 L 379.6 478.5 L 380.0 473.2 L 380.8 467.6 L 381.1 462.0 L 381.5 456.8 L 381.9 451.1 L 382.2 445.9 L 383.0 439.9 L 383.8 434.2 L 384.1 428.6 L 384.5 423.4 L 385.2 417.8 L 385.6 412.1 L 386.8 407.2 L 389.0 401.6 L 391.6 396.8 L 394.2 392.2 L 396.9 387.4 L 399.1 382.5 L 402.9 378.0 L 406.2 373.9 L 410.0 369.8 L 413.8 366.0 L 418.2 363.4 L 422.8 365.6 L 424.6 371.2 L 426.9 375.8 L 429.1 380.2 L 431.4 385.5 L 433.2 390.4 L 434.4 395.2 L 435.5 400.1 L 435.5 405.8 L 434.8 411.8 L 434.4 417.0 L 434.4 422.6 L 434.0 428.2 L 433.6 433.5 L 433.2 438.8 L 433.2 444.4 L 432.5 449.6 L 431.8 455.2 L 431.8 460.9 L 431.0 468.0 L 430.6 474.4 L 429.9 480.4 L 429.1 486.4 L 428.8 491.6 L 428.4 497.2 L 428.0 502.9 L 428.0 508.9 L 427.2 514.5 L 426.1 519.8 L 425.8 525.4 L 425.0 530.6 L 425.0 535.9 L 424.2 541.1 L 423.9 546.4 L 423.1 552.4 L 423.1 557.6 L 422.8 562.9 L 421.6 568.1 L 417.5 572.2 L 413.0 575.2 L 407.8 577.1 L 402.5 578.2 L 396.9 578.2 L 391.2 578.2 L 386.4 576.0 L 381.9 572.2 L 377.4 568.5 L 374.0 564.4 L 374.4 558.8 L 374.4 552.4 L 374.8 547.1 L 374.8 541.9 L 370.2 544.1 L 366.1 547.1 L 361.2 548.6 L 356.0 549.0 L 349.6 549.4 L 344.4 547.9 L 339.9 544.9 L 335.8 541.1 L 332.4 537.4 L 331.2 532.5 L 330.1 526.5 L 329.4 521.2 L 329.0 516.0 L 328.2 510.4 L 327.5 504.0 L 327.1 498.4 L 326.4 492.8 L 325.6 487.1 L 324.9 480.4 L 324.9 474.8 L 323.8 469.5 L 323.0 463.5 L 322.2 457.9 L 321.5 452.6 L 321.5 447.4 L 320.4 441.4 L 319.6 436.1 L 318.9 430.9 L 318.1 424.9 L 317.8 419.6 L 317.8 414.4 L 316.6 409.5 L 316.2 403.9 L 315.1 398.6 L 314.0 393.8 L 313.6 388.5 L 313.2 382.9 L 314.0 377.6 L 315.9 372.4 L 317.4 367.5 L 318.9 362.6 L 320.0 357.8 L 321.9 352.5 L 324.1 347.6 L 326.8 342.0 L 329.8 336.8 L 333.5 333.4 L 338.8 334.9 L 343.2 338.6 L 347.0 343.1 L 350.0 348.4 L 353.4 353.2 L 355.2 358.9 L 357.9 363.8 L 360.1 368.2 L 361.2 373.5 L 362.4 378.8 L 363.1 384.0 L 363.9 390.4 L 364.6 396.4 L 365.0 402.0 L 365.0 407.2 L 365.4 412.9 L 366.5 418.1 L 368.8 426.8 L 369.2 431.7 L 369.7 436.7 L 370.2 441.7 L 370.7 446.7 L 371.2 451.6 L 371.7 456.6 L 372.2 461.6 L 372.7 466.6 L 373.2 471.5 L 373.7 476.5 L 374.2 481.5 L 374.7 486.5 L 375.2 491.4 L 375.7 496.4 L 376.1 501.4 L 376.6 506.4 Z", "bb": [313, 333, 436, 578], "r1": "aud/photo4__activity0__shape16__record1_16.mp3", "r2": null, "ans": [], "link": null, "tx": 231.9, "ty": -289.0, "idle": null}]}]}, {"i": 4, "t": "P", "img": "img/s4.jpg?b=5", "acts": [{"intro": "aud/photo5__activity0__activity0.mp3", "advance": false, "idle": null, "shapes": [{"d": "M 240.9 150.4 L 243.9 146.2 L 248.7 142.9 L 254.0 139.5 L 258.9 136.9 L 264.1 134.2 L 269.4 132.0 L 274.6 129.8 L 280.2 129.0 L 287.0 128.2 L 293.8 127.9 L 299.4 130.1 L 304.2 133.1 L 308.8 138.4 L 311.8 142.9 L 314.0 147.4 L 316.2 153.0 L 317.8 157.9 L 318.1 163.9 L 317.4 169.1 L 315.1 175.1 L 312.9 180.0 L 310.2 184.9 L 306.5 189.8 L 302.4 194.2 L 298.6 198.4 L 295.2 202.1 L 293.4 208.9 L 293.0 216.0 L 292.6 221.6 L 291.9 228.0 L 291.1 233.2 L 290.8 239.2 L 290.0 245.2 L 289.2 250.5 L 288.9 256.5 L 290.4 262.9 L 291.5 267.8 L 291.1 273.8 L 288.5 278.6 L 283.6 282.4 L 278.4 285.0 L 273.5 286.9 L 267.9 288.4 L 261.9 289.9 L 255.9 291.0 L 249.5 291.8 L 244.2 292.5 L 238.6 292.5 L 231.9 292.5 L 224.7 291.8 L 219.5 291.8 L 212.7 291.4 L 206.0 290.2 L 200.0 289.1 L 192.5 288.0 L 186.9 286.5 L 180.9 284.2 L 176.0 280.9 L 173.7 276.4 L 173.0 270.4 L 173.0 264.8 L 174.5 259.9 L 174.9 253.5 L 174.1 246.4 L 172.6 240.4 L 171.9 234.8 L 171.5 228.4 L 170.4 223.5 L 169.2 217.9 L 168.9 211.9 L 168.5 205.9 L 168.1 200.6 L 167.7 194.6 L 167.4 189.4 L 164.7 183.8 L 162.1 179.2 L 159.9 174.4 L 159.5 168.4 L 162.9 163.5 L 167.0 160.1 L 172.6 156.4 L 177.5 154.5 L 182.4 152.6 L 188.0 150.8 L 192.9 149.6 L 198.9 148.5 L 205.6 148.1 L 210.9 147.8 L 216.9 147.8 L 223.2 148.1 L 229.2 148.5 L 234.5 148.9 L 241.2 150.0 L 237.7 153.5 Z", "bb": [159, 128, 318, 292], "r1": "aud/photo5__activity0__shape8__record1_8.mp3", "r2": null, "ans": [], "link": null, "tx": 519.9, "ty": 443.6, "idle": null}, {"d": "M 557.0 151.5 L 560.0 147.4 L 564.9 144.0 L 570.1 140.6 L 575.0 138.0 L 580.2 135.4 L 585.5 133.1 L 590.8 130.9 L 596.4 130.1 L 603.1 129.4 L 609.9 129.0 L 615.5 131.2 L 620.4 134.2 L 624.9 139.5 L 627.9 144.0 L 630.1 148.5 L 632.4 154.1 L 633.9 159.0 L 634.2 165.0 L 633.5 170.2 L 631.2 176.2 L 629.0 181.1 L 626.4 186.0 L 622.6 190.9 L 618.5 195.4 L 614.8 199.5 L 611.4 203.2 L 609.5 210.0 L 609.1 217.1 L 608.8 222.8 L 608.0 229.1 L 607.2 234.4 L 606.9 240.4 L 606.1 246.4 L 605.4 251.6 L 605.0 257.6 L 606.5 264.0 L 607.6 268.9 L 607.2 274.9 L 604.6 279.8 L 599.8 283.5 L 594.5 286.1 L 589.6 288.0 L 584.0 289.5 L 578.0 291.0 L 572.0 292.1 L 565.6 292.9 L 560.4 293.6 L 554.8 293.6 L 548.0 293.6 L 540.9 292.9 L 535.6 292.9 L 528.9 292.5 L 522.1 291.4 L 516.1 290.2 L 508.6 289.1 L 503.0 287.6 L 497.0 285.4 L 492.1 282.0 L 489.9 277.5 L 489.1 271.5 L 489.1 265.9 L 490.6 261.0 L 491.0 254.6 L 490.2 247.5 L 488.8 241.5 L 488.0 235.9 L 487.6 229.5 L 486.5 224.6 L 485.4 219.0 L 485.0 213.0 L 484.6 207.0 L 484.2 201.8 L 483.9 195.8 L 483.5 190.5 L 480.9 184.9 L 478.2 180.4 L 476.0 175.5 L 475.6 169.5 L 479.0 164.6 L 483.1 161.2 L 488.8 157.5 L 493.6 155.6 L 498.5 153.8 L 504.1 151.9 L 509.0 150.8 L 515.0 149.6 L 521.8 149.2 L 527.0 148.9 L 533.0 148.9 L 539.4 149.2 L 545.4 149.6 L 550.6 150.0 L 557.4 151.1 L 553.8 154.7 Z", "bb": [476, 129, 634, 294], "r1": "aud/photo5__activity0__shape10__record1_10.mp3", "r2": null, "ans": [], "link": null, "tx": -286.8, "ty": 443.9, "idle": null}, {"d": "M 873.1 150.8 L 876.1 146.6 L 881.0 143.2 L 886.2 139.9 L 891.1 137.2 L 896.4 134.6 L 901.6 132.4 L 906.9 130.1 L 912.5 129.4 L 919.2 128.6 L 926.0 128.2 L 931.6 130.5 L 936.5 133.5 L 941.0 138.8 L 944.0 143.2 L 946.2 147.8 L 948.5 153.4 L 950.0 158.2 L 950.4 164.2 L 949.6 169.5 L 947.4 175.5 L 945.1 180.4 L 942.5 185.2 L 938.8 190.1 L 934.6 194.6 L 930.9 198.8 L 927.5 202.5 L 925.6 209.2 L 925.2 216.4 L 924.9 222.0 L 924.1 228.4 L 923.4 233.6 L 923.0 239.6 L 922.2 245.6 L 921.5 250.9 L 921.1 256.9 L 922.6 263.2 L 923.8 268.1 L 923.4 274.1 L 920.8 279.0 L 915.9 282.8 L 910.6 285.4 L 905.8 287.2 L 900.1 288.8 L 894.1 290.2 L 888.1 291.4 L 881.8 292.1 L 876.5 292.9 L 870.9 292.9 L 864.1 292.9 L 857.0 292.1 L 851.8 292.1 L 845.0 291.8 L 838.2 290.6 L 832.2 289.5 L 824.8 288.4 L 819.1 286.9 L 813.1 284.6 L 808.2 281.2 L 806.0 276.8 L 805.2 270.8 L 805.2 265.1 L 806.8 260.2 L 807.1 253.9 L 806.4 246.8 L 804.9 240.8 L 804.1 235.1 L 803.8 228.8 L 802.6 223.9 L 801.5 218.2 L 801.1 212.2 L 800.8 206.2 L 800.4 201.0 L 800.0 195.0 L 799.6 189.8 L 797.0 184.1 L 794.4 179.6 L 792.1 174.8 L 791.8 168.8 L 795.1 163.9 L 799.2 160.5 L 804.9 156.8 L 809.8 154.9 L 814.6 153.0 L 820.2 151.1 L 825.1 150.0 L 831.1 148.9 L 837.9 148.5 L 843.1 148.1 L 849.1 148.1 L 855.5 148.5 L 861.5 148.9 L 866.8 149.2 L 873.5 150.4 L 870.0 153.9 Z", "bb": [792, 128, 950, 293], "r1": "aud/photo5__activity0__shape9__record1_9.mp3", "r2": null, "ans": [], "link": null, "tx": -349.9, "ty": 445.9, "idle": null}]}]}, {"i": 5, "t": "P", "img": "img/s5.jpg?b=5", "acts": [{"intro": "aud/photo6__activity0__activity0.mp3", "advance": false, "idle": null, "shapes": [{"d": "M 294.2 599.5 L 294.2 675.8 C 294.2 679.7 291.0 682.8 287.2 682.8 L 101.1 682.8 C 97.3 682.8 94.1 679.7 94.1 675.8 L 94.1 523.2 C 94.1 519.3 97.3 516.2 101.1 516.2 L 287.2 516.2 C 291.0 516.2 294.2 519.3 294.2 523.2 Z", "bb": [94, 516, 294, 683], "r1": "aud/photo6__activity0__shape4__record1_4.mp3", "r2": null, "ans": [], "link": null, "tx": 315.0, "ty": -471.5, "idle": null}, {"d": "M 608.0 600.2 L 608.0 676.5 C 608.0 680.4 604.9 683.5 601.0 683.5 L 415.0 683.5 C 411.1 683.5 408.0 680.4 408.0 676.5 L 408.0 523.9 C 408.0 520.0 411.1 516.9 415.0 516.9 L 601.0 516.9 C 604.9 516.9 608.0 520.0 608.0 523.9 Z", "bb": [408, 517, 608, 684], "r1": "aud/photo6__activity0__shape6__record1_6.mp3", "r2": null, "ans": [], "link": null, "tx": 258.0, "ty": -473.1, "idle": null}, {"d": "M 926.2 601.7 L 926.2 678.0 C 926.2 681.9 923.0 685.0 919.2 685.0 L 733.1 685.0 C 729.3 685.0 726.1 681.9 726.1 678.0 L 726.1 525.4 C 726.1 521.5 729.3 518.4 733.1 518.4 L 919.2 518.4 C 923.0 518.4 926.2 521.5 926.2 525.4 Z", "bb": [726, 518, 926, 685], "r1": "aud/photo6__activity0__shape5__record1_5.mp3", "r2": null, "ans": [], "link": null, "tx": -574.2, "ty": -473.4, "idle": null}]}]}, {"i": 6, "t": "P", "img": "img/s6.jpg?b=5", "acts": [{"intro": "aud/photo7__activity0__activity0.mp3", "advance": false, "idle": null, "shapes": [{"d": "M 400.2 619.9 L 400.6 626.2 L 401.4 633.0 L 401.8 639.4 L 402.9 644.2 L 403.2 649.5 L 404.4 654.8 L 407.0 659.2 L 412.2 661.9 L 418.2 661.1 L 423.5 659.2 L 429.1 656.2 L 433.6 653.6 L 437.8 650.2 L 442.6 647.2 L 447.5 644.6 L 452.0 641.6 L 456.1 638.6 L 460.2 641.6 L 463.6 645.8 L 468.1 648.8 L 473.4 649.1 L 478.2 647.6 L 482.4 644.2 L 486.5 639.4 L 490.2 635.2 L 493.2 631.1 L 496.6 626.6 L 500.0 622.9 L 504.1 618.8 L 508.2 614.6 L 512.0 610.1 L 515.0 606.0 L 519.1 601.1 L 522.5 597.4 L 525.5 593.2 L 528.9 588.8 L 531.9 584.2 L 534.5 579.8 L 537.5 574.5 L 538.6 569.2 L 534.9 565.1 L 528.5 564.8 L 523.2 565.1 L 516.5 565.5 L 510.1 565.5 L 504.1 565.5 L 497.8 565.9 L 492.1 567.0 L 485.8 567.4 L 480.1 567.8 L 473.4 568.5 L 467.4 569.2 L 461.0 570.0 L 455.0 570.8 L 448.6 571.5 L 442.6 571.9 L 436.6 571.9 L 430.6 572.2 L 425.0 572.6 L 419.0 573.0 L 413.0 573.4 L 407.8 573.8 L 402.5 574.1 L 398.0 576.8 L 393.9 580.9 L 390.1 584.6 L 386.0 588.0 L 381.5 591.8 L 377.0 595.1 L 372.5 598.5 L 368.4 601.5 L 364.2 605.2 L 360.9 609.4 L 360.9 615.0 L 365.4 617.6 L 370.6 618.8 L 376.6 619.1 L 381.9 619.1 L 387.1 618.8 L 395.0 617.2 L 399.9 616.1 L 400.4 621.1 Z", "bb": [361, 565, 539, 662], "r1": "aud/photo7__activity0__shape3__record1_3.mp3", "r2": null, "ans": [], "link": null, "tx": 220.5, "ty": -469.9, "idle": null}, {"d": "M 394.2 351.0 L 394.6 357.4 L 395.4 364.1 L 395.8 370.5 L 396.9 375.4 L 397.2 380.6 L 398.4 385.9 L 401.0 390.4 L 406.2 393.0 L 412.2 392.2 L 417.5 390.4 L 423.1 387.4 L 427.6 384.8 L 431.8 381.4 L 436.6 378.4 L 441.5 375.8 L 446.0 372.8 L 450.1 369.8 L 454.2 372.8 L 457.6 376.9 L 462.1 379.9 L 467.4 380.2 L 472.2 378.8 L 476.4 375.4 L 480.5 370.5 L 484.2 366.4 L 487.2 362.2 L 490.6 357.8 L 494.0 354.0 L 498.1 349.9 L 502.2 345.8 L 506.0 341.2 L 509.0 337.1 L 513.1 332.2 L 516.5 328.5 L 519.5 324.4 L 522.9 319.9 L 525.9 315.4 L 528.5 310.9 L 531.5 305.6 L 532.6 300.4 L 528.9 296.2 L 522.5 295.9 L 517.2 296.2 L 510.5 296.6 L 504.1 296.6 L 498.1 296.6 L 491.8 297.0 L 486.1 298.1 L 479.8 298.5 L 474.1 298.9 L 467.4 299.6 L 461.4 300.4 L 455.0 301.1 L 449.0 301.9 L 442.6 302.6 L 436.6 303.0 L 430.6 303.0 L 424.6 303.4 L 419.0 303.8 L 413.0 304.1 L 407.0 304.5 L 401.8 304.9 L 396.5 305.2 L 392.0 307.9 L 387.9 312.0 L 384.1 315.8 L 380.0 319.1 L 375.5 322.9 L 371.0 326.2 L 366.5 329.6 L 362.4 332.6 L 358.2 336.4 L 354.9 340.5 L 354.9 346.1 L 359.4 348.8 L 364.6 349.9 L 370.6 350.2 L 375.9 350.2 L 381.1 349.9 L 389.0 348.4 L 393.9 347.2 L 394.4 352.2 Z", "bb": [355, 296, 533, 393], "r1": "aud/photo7__activity0__shape2__record1_2.mp3", "r2": null, "ans": [], "link": null, "tx": 414.6, "ty": 10, "idle": null}, {"d": "M 291.5 120.8 L 291.9 127.1 L 292.6 133.9 L 293.0 140.2 L 294.1 145.1 L 294.5 150.4 L 295.6 155.6 L 298.2 160.1 L 303.5 162.8 L 309.5 162.0 L 314.8 160.1 L 320.4 157.1 L 324.9 154.5 L 329.0 151.1 L 333.9 148.1 L 338.8 145.5 L 343.2 142.5 L 347.4 139.5 L 351.5 142.5 L 354.9 146.6 L 359.4 149.6 L 364.6 150.0 L 369.5 148.5 L 373.6 145.1 L 377.8 140.2 L 381.5 136.1 L 384.5 132.0 L 387.9 127.5 L 391.2 123.8 L 395.4 119.6 L 399.5 115.5 L 403.2 111.0 L 406.2 106.9 L 410.4 102.0 L 413.8 98.2 L 416.8 94.1 L 420.1 89.6 L 423.1 85.1 L 425.8 80.6 L 428.8 75.4 L 429.9 70.1 L 426.1 66.0 L 419.8 65.6 L 414.5 66.0 L 407.8 66.4 L 401.4 66.4 L 395.4 66.4 L 389.0 66.8 L 383.4 67.9 L 377.0 68.2 L 371.4 68.6 L 364.6 69.4 L 358.6 70.1 L 352.2 70.9 L 346.2 71.6 L 339.9 72.4 L 333.9 72.8 L 327.9 72.8 L 321.9 73.1 L 316.2 73.5 L 310.2 73.9 L 304.2 74.2 L 299.0 74.6 L 293.8 75.0 L 289.2 77.6 L 285.1 81.8 L 281.4 85.5 L 277.2 88.9 L 272.8 92.6 L 268.2 96.0 L 263.8 99.4 L 259.6 102.4 L 255.5 106.1 L 252.1 110.2 L 252.1 115.9 L 256.6 118.5 L 261.9 119.6 L 267.9 120.0 L 273.1 120.0 L 278.4 119.6 L 286.2 118.1 L 291.1 117.0 L 291.6 122.0 Z", "bb": [252, 66, 430, 163], "r1": "aud/photo7__activity0__shape4__record1_4.mp3", "r2": null, "ans": [], "link": null, "tx": 378.6, "ty": 461.2, "idle": null}]}]}, {"i": 7, "t": "R", "img": "img/s7.jpg?b=4", "acts": [{"intro": "aud/photo8__activity0__activity0.mp3", "advance": true, "idle": null, "shapes": []}], "layers": [{"t": "bg", "src": "lay/s7_0.jpg?b=4", "w": 2048, "h": 1536, "m": [1, 0, 0, 1, 0, 0], "show": 0, "tog": false}]}], "title": "מיון צבעים", "hash": "g4bj0", "brand": "חן קלימיאן", "writeBase": "../../letters/"};
 const SL = CFG.slides, LAST = SL.length - 1;
 const NS = 'http://www.w3.org/2000/svg';
 const $ = id => document.getElementById(id);
